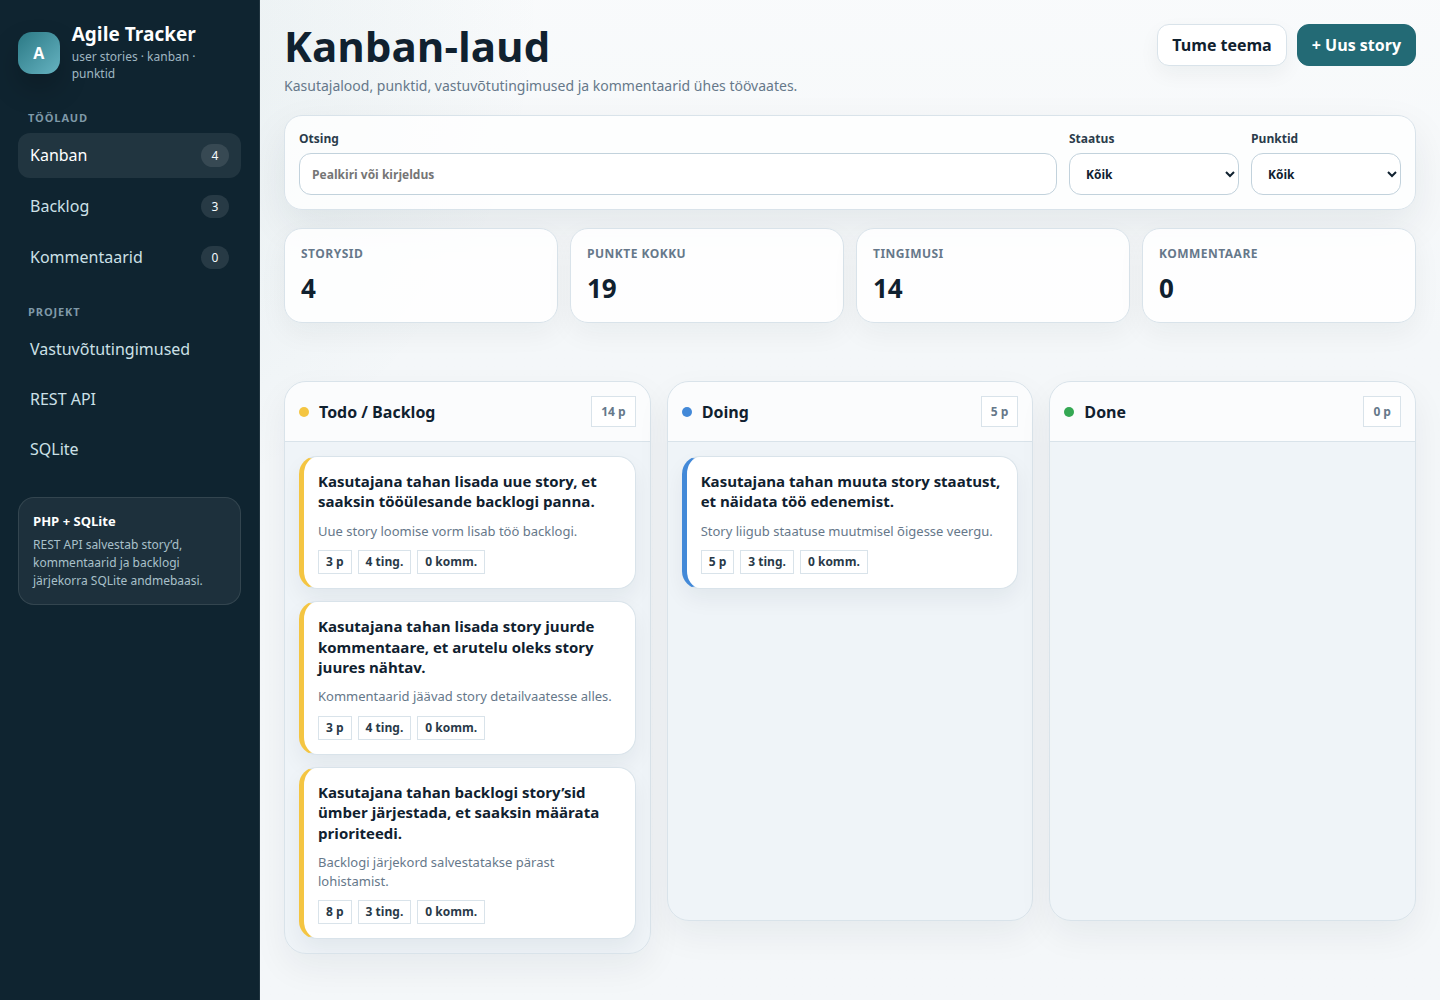
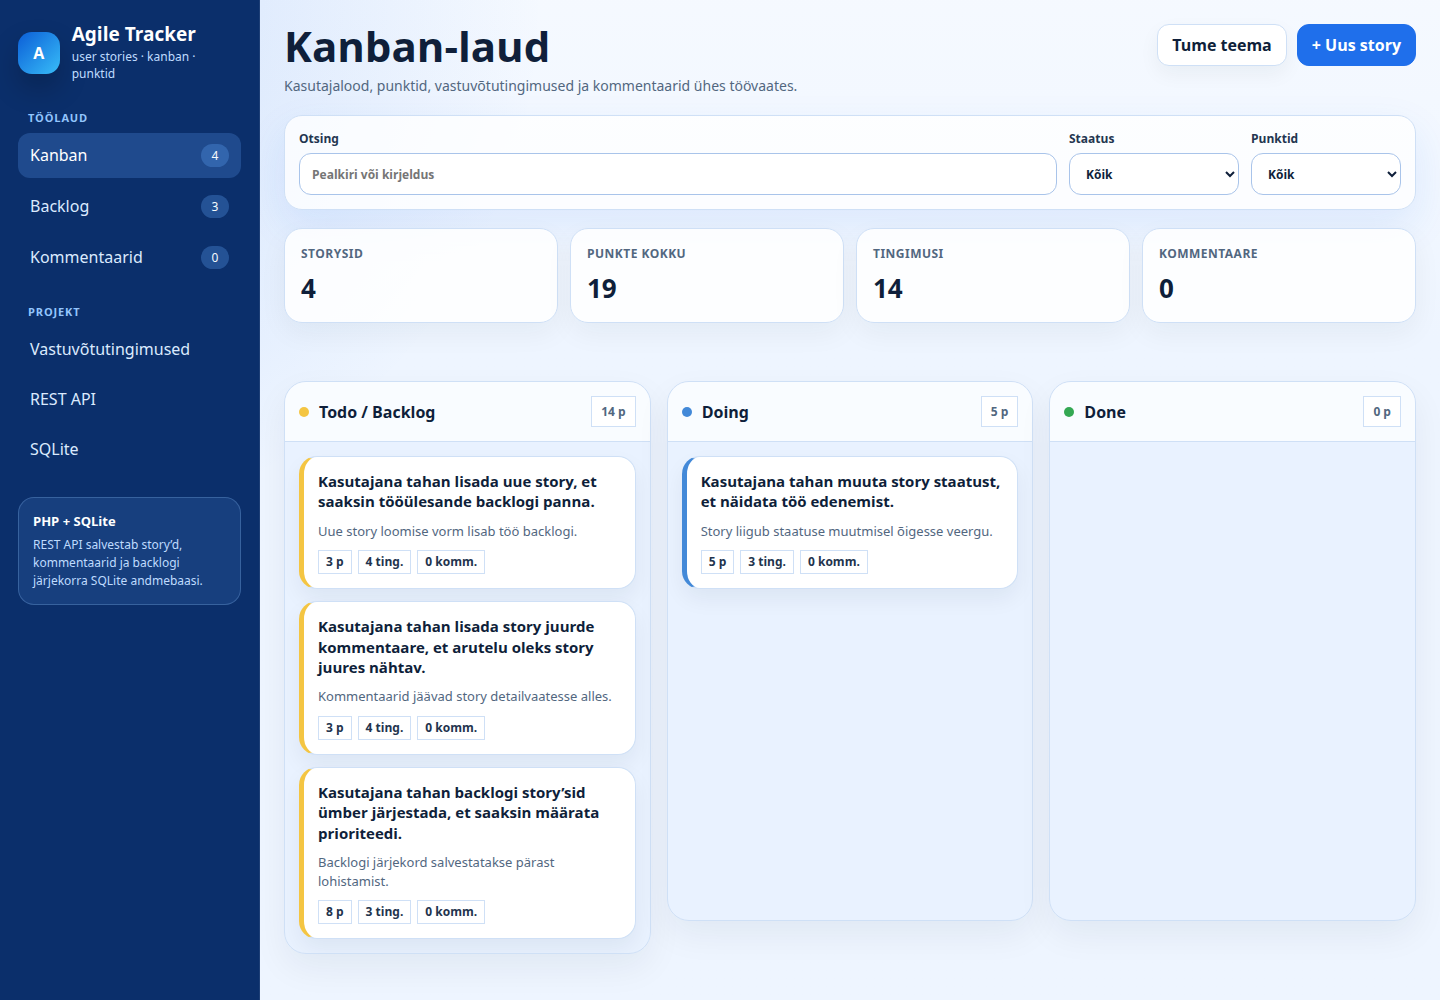
style: make theme obviously blue because laps ütles et ei ole sinine

Changed region(s): [[0.0, 0.0, 0.1875, 1.0], [0.875, 0.0, 1.0, 0.093]]

diff --git a/public/assets/styles.css b/public/assets/styles.css
@@ -1,37 +1,37 @@
 :root {
     color-scheme: light;
-    --bg: #f4f7f9;
+    --bg: #eef5ff;
     --panel: #ffffff;
-    --panel-soft: #eef4f7;
-    --text: #10212f;
-    --muted: #66788a;
-    --line: #d9e3ea;
-    --line-strong: #c2d2dc;
-    --accent: #2563eb;
-    --accent-dark: #1d4ed8;
+    --panel-soft: #e8f1ff;
+    --text: #0f1f3a;
+    --muted: #52677f;
+    --line: #cfe0f6;
+    --line-strong: #a9c4ea;
+    --accent: #1f6feb;
+    --accent-dark: #174ea6;
     --danger: #b42318;
     --todo: #f4c542;
     --doing: #4389d8;
     --done: #34a853;
-    --sidebar: #0f2430;
-    --sidebar-text: #d7e8ee;
-    --shadow: 0 16px 40px rgb(16 33 47 / 8%);
+    --sidebar: #0b2f6b;
+    --sidebar-text: #dbeafe;
+    --shadow: 0 16px 40px rgb(31 111 235 / 10%);
     font-family: Inter, ui-sans-serif, system-ui, -apple-system, BlinkMacSystemFont, "Segoe UI", sans-serif;
 }
 
 :root[data-theme="dark"] {
     color-scheme: dark;
-    --bg: #0e171d;
-    --panel: #16242d;
-    --panel-soft: #1c303a;
+    --bg: #081426;
+    --panel: #10213a;
+    --panel-soft: #132b4d;
     --text: #eef7fa;
     --muted: #9bb1bf;
-    --line: #2d4552;
-    --line-strong: #42606f;
+    --line: #27466f;
+    --line-strong: #3b64a0;
     --accent: #60a5fa;
     --accent-dark: #93c5fd;
     --danger: #ff8d83;
-    --sidebar: #07131a;
+    --sidebar: #061b3f;
     --sidebar-text: #d7e8ee;
     --shadow: 0 18px 44px rgb(0 0 0 / 26%);
 }
@@ -43,7 +43,7 @@
 body {
     margin: 0;
     background:
-        radial-gradient(circle at top left, rgb(37 99 235 / 10%), transparent 34rem),
+        radial-gradient(circle at top left, rgb(31 111 235 / 18%), transparent 34rem),
         linear-gradient(180deg, color-mix(in srgb, var(--panel) 42%, var(--bg)) 0%, var(--bg) 34%);
     color: var(--text);
     min-height: 100vh;
@@ -94,7 +94,7 @@ button:hover {
 }
 
 .brand-mark {
-    background: linear-gradient(135deg, #1d4ed8, #60a5fa);
+    background: linear-gradient(135deg, #0b5ed7, #38bdf8);
     border-radius: 14px;
     box-shadow: 0 14px 28px rgb(0 0 0 / 22%);
     color: #fff;
@@ -113,13 +113,13 @@ button:hover {
 }
 
 .brand p {
-    color: #9fb6c1;
+    color: #bfdbfe;
     font-size: 12px;
     margin: 3px 0 0;
 }
 
 .nav-label {
-    color: #7f99a8;
+    color: #93c5fd;
     font-size: 11px;
     font-weight: 800;
     letter-spacing: .08em;
@@ -131,7 +131,7 @@ button:hover {
     align-items: center;
     background: transparent;
     border: 0;
-    color: #cce0e7;
+    color: #dbeafe;
     display: flex;
     justify-content: space-between;
     margin-bottom: 6px;
@@ -142,12 +142,12 @@ button:hover {
 
 .nav-item.active,
 .nav-item:hover {
-    background: rgb(255 255 255 / 8%);
+    background: rgb(96 165 250 / 24%);
     color: #fff;
 }
 
 .nav-pill {
-    background: rgb(255 255 255 / 10%);
+    background: rgb(96 165 250 / 30%);
     border-radius: 999px;
     color: #f6fbfd;
     font-size: 12px;
@@ -157,8 +157,8 @@ button:hover {
 }
 
 .sidebar-card {
-    background: rgb(255 255 255 / 6%);
-    border: 1px solid rgb(255 255 255 / 10%);
+    background: rgb(96 165 250 / 14%);
+    border: 1px solid rgb(147 197 253 / 26%);
     border-radius: 16px;
     margin-top: 26px;
     padding: 14px;
@@ -172,7 +172,7 @@ button:hover {
 }
 
 .sidebar-card p {
-    color: #a9c0ca;
+    color: #bfdbfe;
     font-size: 12px;
     line-height: 1.5;
     margin: 0;

diff --git a/public/index.php b/public/index.php
@@ -30,7 +30,7 @@ if (str_starts_with($path, '/api/')) {
     <meta charset="utf-8">
     <meta name="viewport" content="width=device-width, initial-scale=1">
     <title>Agile Tracker</title>
-    <link rel="stylesheet" href="/assets/styles.css?v=8">
+    <link rel="stylesheet" href="/assets/styles.css?v=9">
 </head>
 <body>
     <div class="app-shell">
@@ -189,6 +189,6 @@ if (str_starts_with($path, '/api/')) {
         </div>
     </aside>
 
-    <script src="/assets/app.js?v=8"></script>
+    <script src="/assets/app.js?v=9"></script>
 </body>
 </html>
